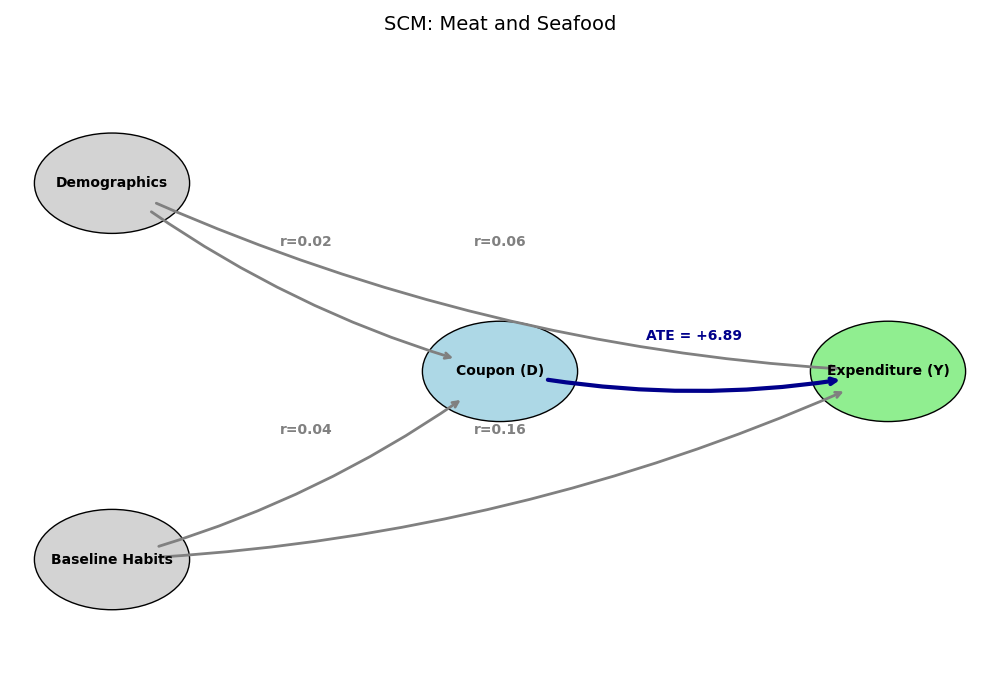
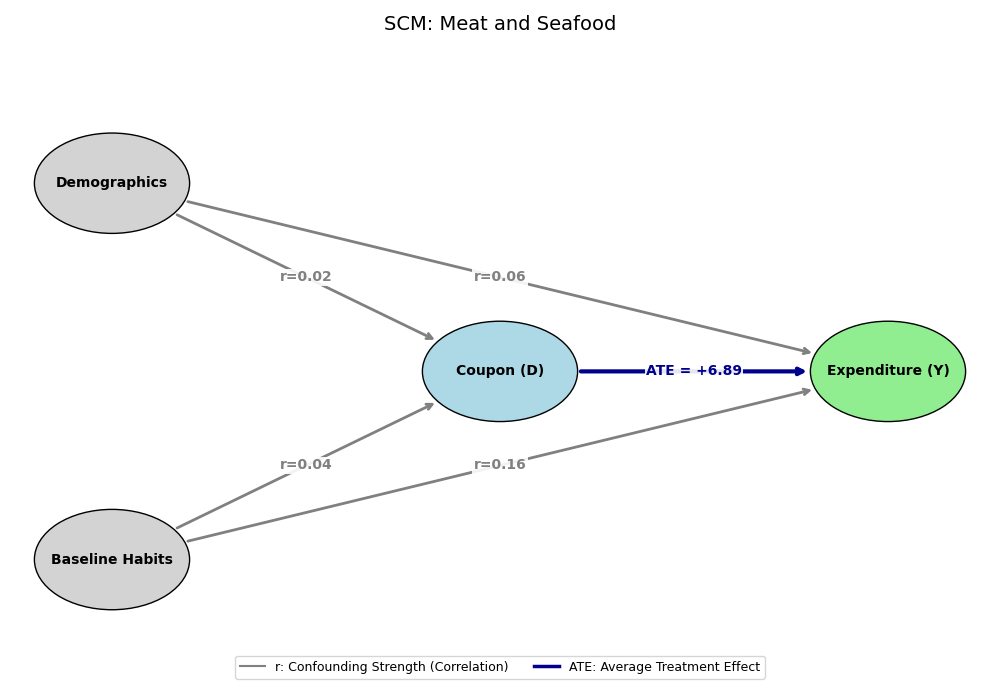
Fixed SCM plots

diff --git a/visualize_results.py b/visualize_results.py
@@ -232,59 +232,6 @@ def plot_personas():
     plt.close()
     print(f"✓ Saved Persona plot")
 
-def plot_profitability_threshold():
-    """Think Aloud #4: Profitability Threshold Matrix (Dynamic Cost)."""
-    dist_file = "results/cate_distributions.csv"
-    cost_file = "results/dynamic_cost.txt"
-    if not os.path.exists(dist_file) or not os.path.exists(cost_file): return
-    
-    df = pd.read_csv(dist_file)
-    with open(cost_file, "r") as f:
-        cost_threshold = float(f.read())
-        
-    for t_col in df["treatment"].unique():
-        data = df[df["treatment"] == t_col].copy()
-        
-        # Aggregate by subgroup
-        agg_df = data.groupby(['age_range', 'income_bracket']).agg(
-            mean_cate=('cate', 'mean'),
-            mean_se=('std_err', 'mean')
-        ).reset_index()
-        
-        def get_action(row):
-            ci_lower = row['mean_cate'] - 1.96 * row['mean_se']
-            ci_upper = row['mean_cate'] + 1.96 * row['mean_se']
-            if ci_lower > cost_threshold: return 1 # Green: Target
-            if ci_upper < cost_threshold: return -1 # Red: Exclude
-            return 0 # Gray: Uncertain
-                
-        agg_df['action'] = agg_df.apply(get_action, axis=1)
-        pivot_df = agg_df.pivot(index="age_range", columns="income_bracket", values="action")
-        
-        plt.figure(figsize=(12, 8))
-        cmap = sns.color_palette(["#ff9999", "#d3d3d3", "#99ff99"])
-        sns.heatmap(pivot_df, annot=False, cmap=cmap, cbar=False, linewidths=.5)
-        
-        # Legend
-        from matplotlib.patches import Patch
-        legend_elements = [
-            Patch(facecolor='#99ff99', label='Target (CATE > Cost)'),
-            Patch(facecolor='#d3d3d3', label='Uncertain'),
-            Patch(facecolor='#ff9999', label='Exclude (CATE < Cost)')
-        ]
-        plt.legend(handles=legend_elements, loc='upper left', bbox_to_anchor=(1, 1))
-        
-        label = LABEL_MAP.get(t_col, t_col)
-        plt.title(f"Profitability Action Matrix (Cost = ${cost_threshold:.2f})\n{label}")
-        plt.xlabel("Income Bracket")
-        plt.ylabel("Age Range")
-        
-        safe_name = t_col.replace("treatment_", "").replace("/", "_").replace(" ", "_")
-        plt.tight_layout()
-        plt.savefig(f"{THINK_ALOUD_DIR}/profitability_{safe_name}.png")
-        plt.close()
-        print(f"✓ Saved Profitability Matrix for {t_col}")
-
 def plot_feature_importance():
     """Think Aloud #5: Feature Importance for Heterogeneity."""
     file_path = "results/feature_importance.csv"
@@ -367,22 +314,45 @@ def plot_causal_dag():
         t_conf = conf_df[conf_df["treatment"] == t_col]
         plt.figure(figsize=(10, 7))
         pos = {"Demographics": (0.1, 0.8), "Baseline Habits": (0.1, 0.2), "Coupon (D)": (0.5, 0.5), "Expenditure (Y)": (0.9, 0.5)}
+        
+        # 1. Store the drawn patches in a dictionary
+        node_patches = {}
         for node, (x, y) in pos.items():
             color = "lightblue" if "(D)" in node else "lightgreen" if "(Y)" in node else "lightgrey"
             circle = plt.Circle((x, y), 0.08, color=color, ec="black", zorder=3)
             plt.gca().add_patch(circle)
+            node_patches[node] = circle
             plt.text(x, y, node, ha="center", va="center", fontweight="bold", zorder=4)
 
         def draw_arrow(start, end, label, color="black", lw=2):
-            plt.annotate("", xy=pos[end], xytext=pos[start], arrowprops=dict(arrowstyle="->", color=color, lw=lw, shrinkA=35, shrinkB=35, connectionstyle="arc3,rad=0.1"))
-            lx, ly = (pos[start][0] + pos[end][0]) / 2, (pos[start][1] + pos[end][1]) / 2
-            plt.text(lx, ly + 0.05, label, ha="center", color=color, fontweight="bold")
+            # 2. Pass the patches to patchA and patchB. This forces the arrow to clip exactly at the edge!
+            plt.annotate("", xy=pos[end], xytext=pos[start], 
+                         arrowprops=dict(arrowstyle="->", color=color, lw=lw,
+                                         patchA=node_patches[start], patchB=node_patches[end],
+                                         shrinkA=2, shrinkB=2)) # Adds a tiny 2-point gap so it doesn't overlap the black border
+            
+            p1 = np.array(pos[start])
+            p2 = np.array(pos[end])
+            mid = (p1 + p2) / 2
+            
+            plt.text(mid[0], mid[1], label, 
+                     ha="center", va="center", color=color, fontweight="bold",
+                     bbox=dict(facecolor='white', edgecolor='none', alpha=0.9, pad=1))
 
         for _, row in t_conf.iterrows():
             c_node = "Demographics" if row["confounder_group"] == "Demographics" else "Baseline Habits"
             draw_arrow(c_node, "Coupon (D)", f"r={row['strength_to_d']:.2f}", color="gray")
             draw_arrow(c_node, "Expenditure (Y)", f"r={row['strength_to_y']:.2f}", color="gray")
         draw_arrow("Coupon (D)", "Expenditure (Y)", f"ATE = {ate_val:+.2f}", color="darkblue", lw=3)
+
+        # Add Legend for clarity in think-aloud study
+        from matplotlib.lines import Line2D
+        legend_elements = [
+            Line2D([0], [0], color='gray', lw=1.5, label='r: Confounding Strength (Correlation)'),
+            Line2D([0], [0], color='darkblue', lw=2.5, label='ATE: Average Treatment Effect')
+        ]
+        plt.legend(handles=legend_elements, loc='lower center', ncol=2, frameon=True, fontsize=9)
+
         plt.title(f"SCM: {LABEL_MAP.get(t_col, t_col)}", fontsize=14, pad=20)
         plt.xlim(0, 1); plt.ylim(0, 1); plt.axis("off")
         safe_name = t_col.replace("treatment_", "").replace("/", "_").replace(" ", "_")
@@ -402,5 +372,4 @@ if __name__ == "__main__":
     plot_qini_curve()
     plot_waterfall_uncertainty()
     plot_personas()
-    plot_profitability_threshold()
     plot_feature_importance()
